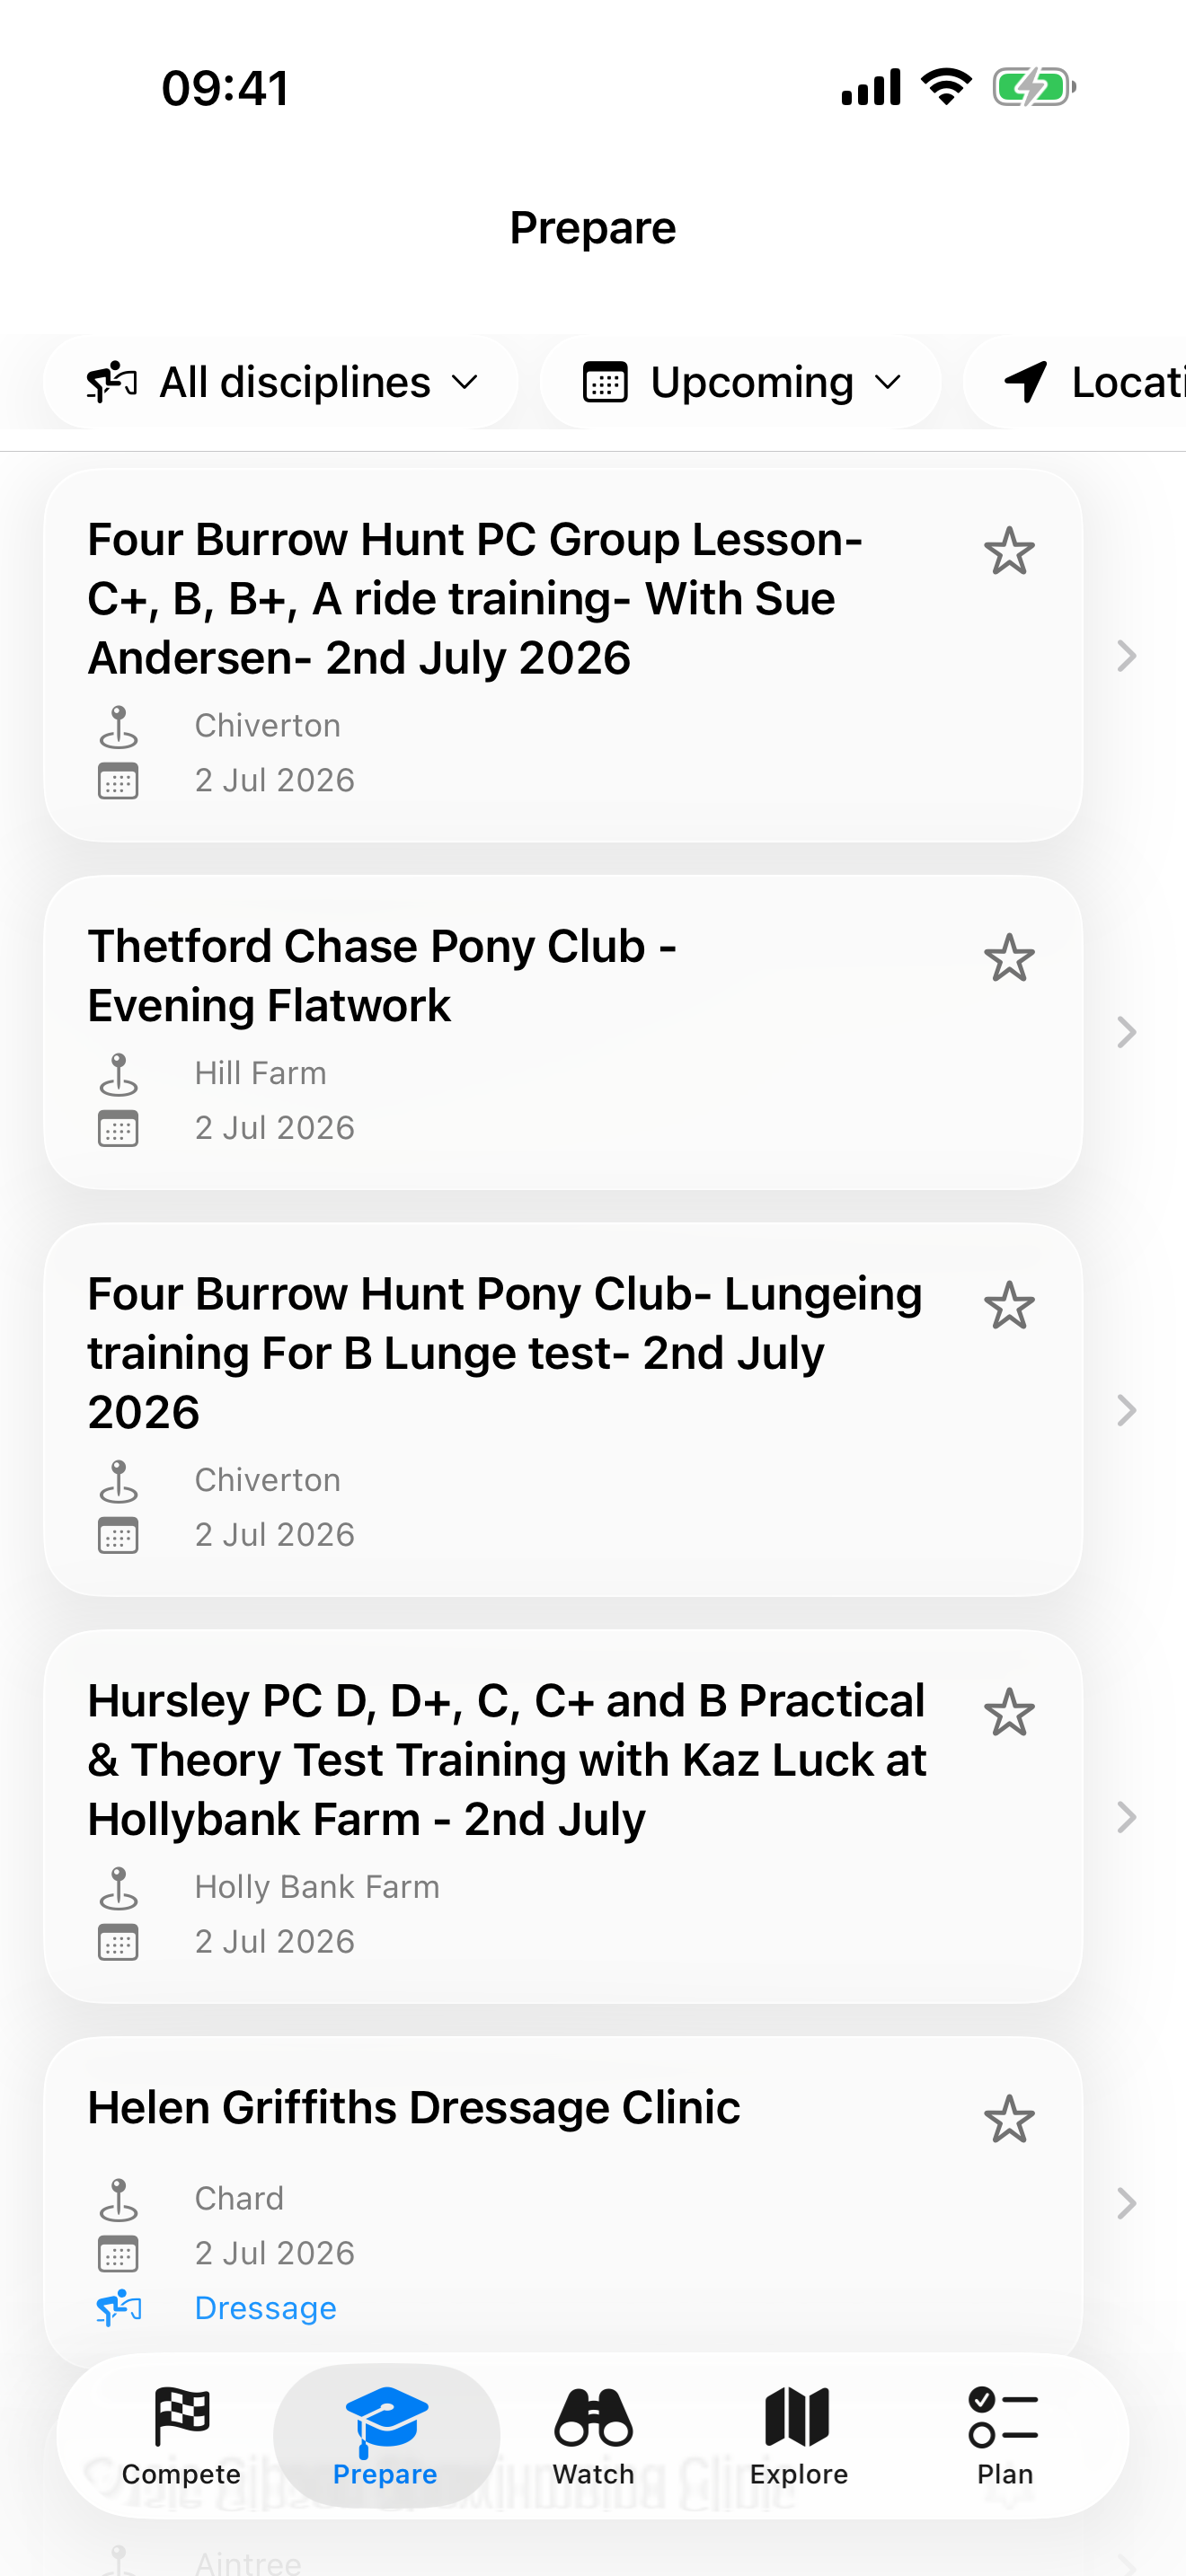
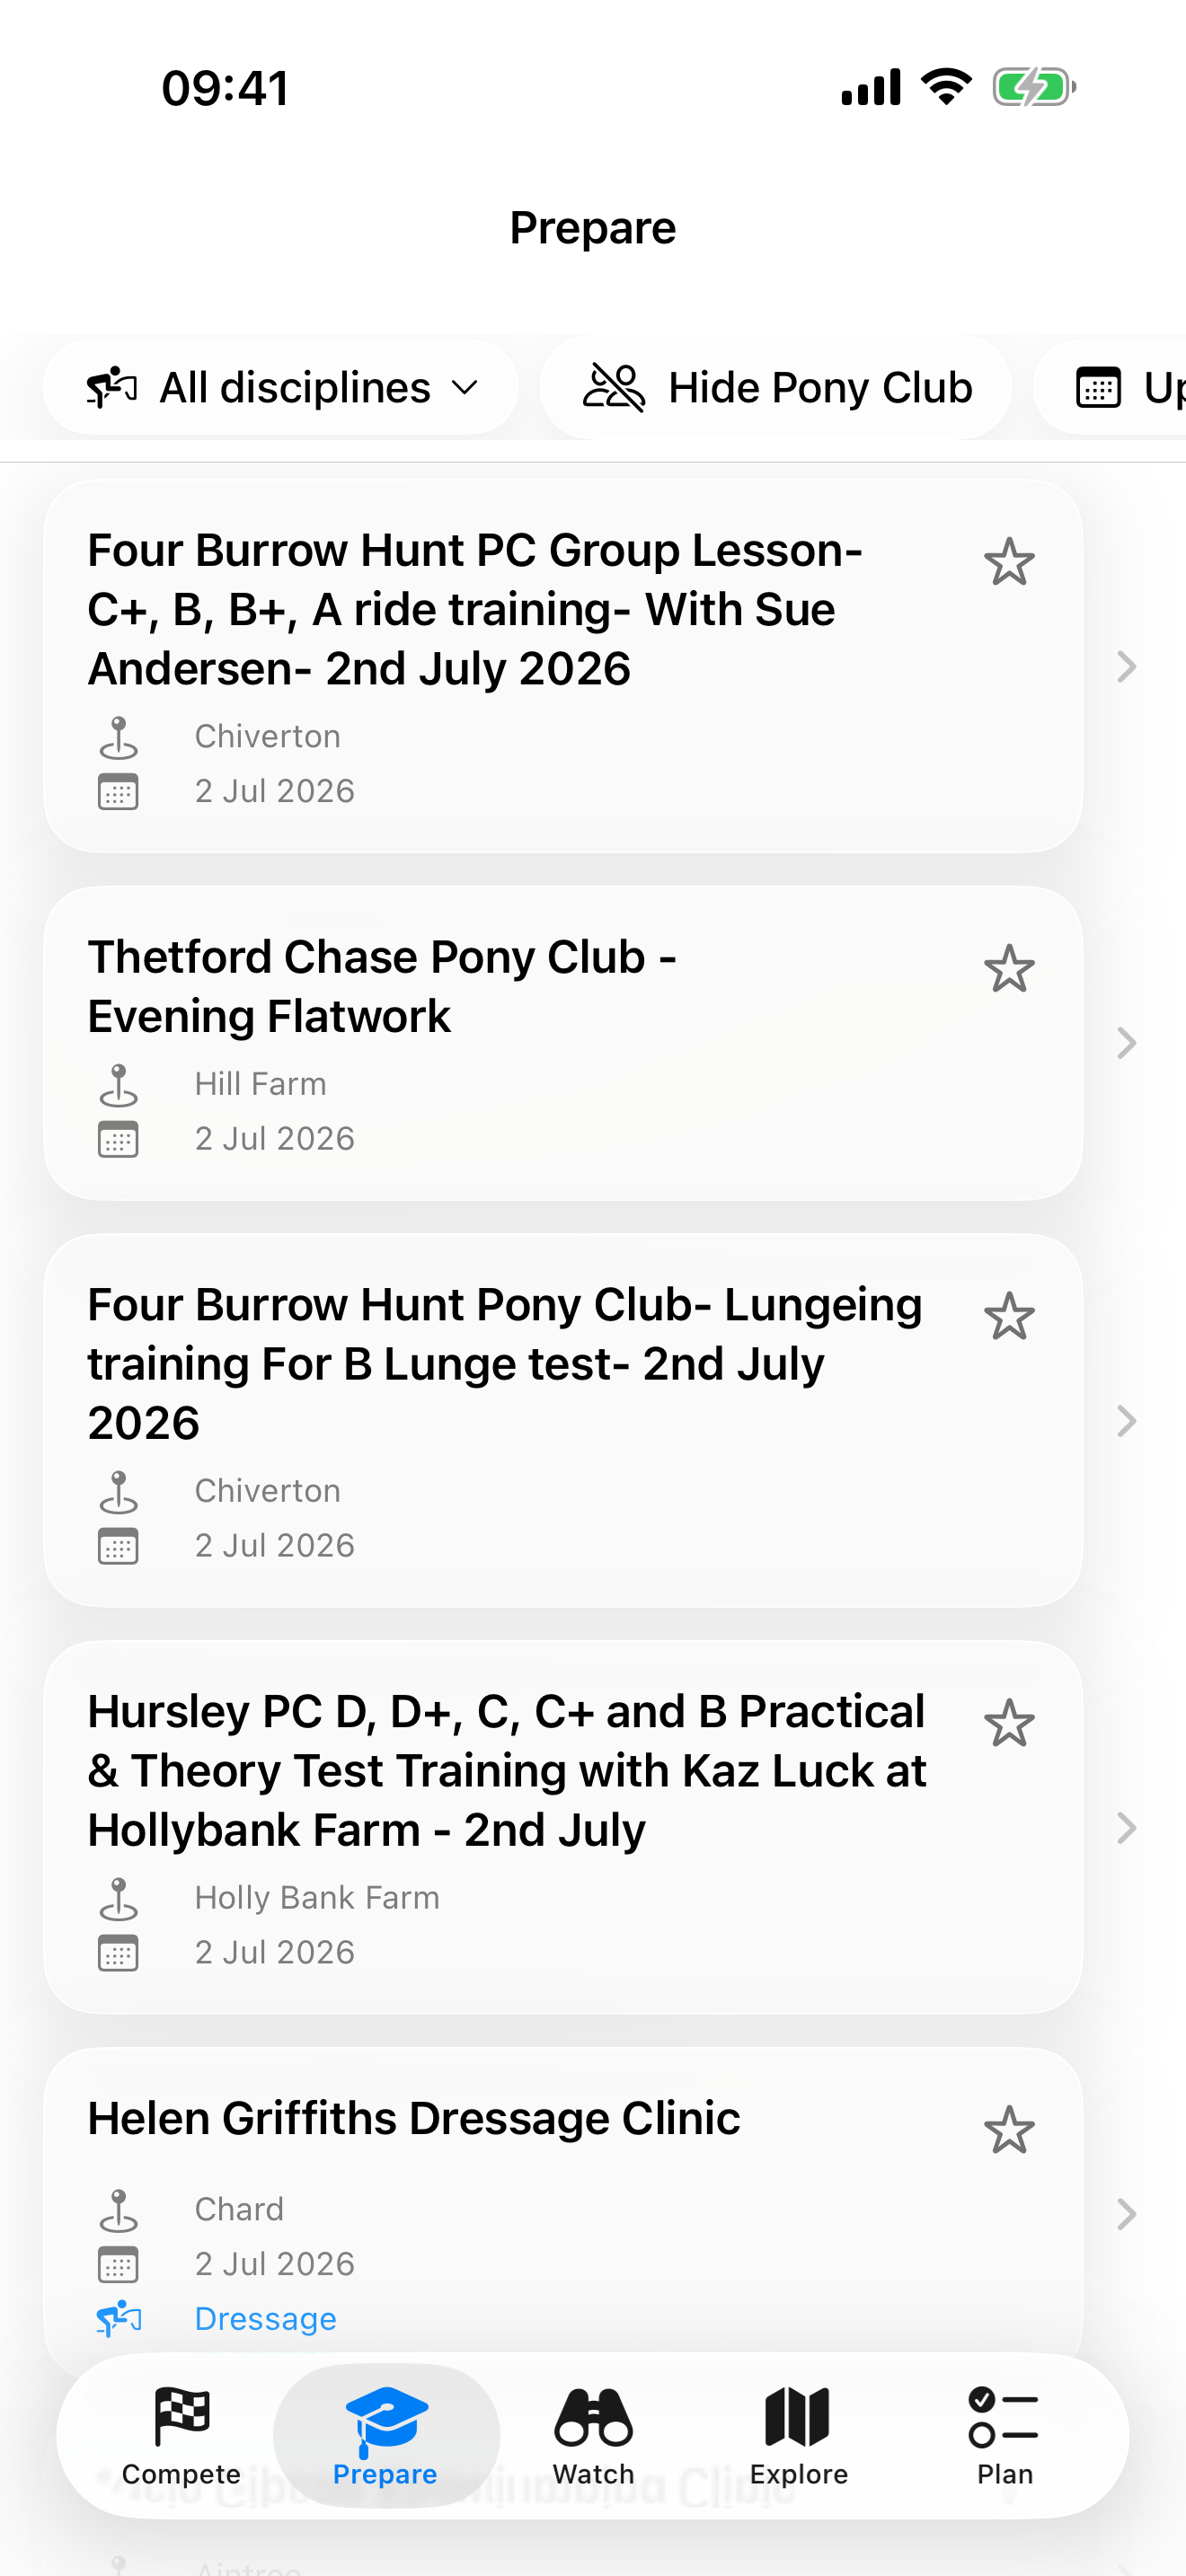
feat: add "Hide Pony Club" filter to Prepare tab

diff --git a/ios/EquiCalendar/Views/FilterComponents.swift b/ios/EquiCalendar/Views/FilterComponents.swift
@@ -29,6 +29,9 @@ struct FilterBar<Model: FilterDriving>: View {
                     if model.showsDiscipline {
                         disciplineMenu
                     }
+                    if model.showsPonyClubFilter {
+                        ponyClubPill
+                    }
                     if model.showsDate {
                         dateMenu
                     }
@@ -118,6 +121,15 @@ struct FilterBar<Model: FilterDriving>: View {
     }
 
     private var championshipToken: String { "special:championship-final" }
+
+    /// Prepare-only toggle to hide members-only Pony Club events.
+    private var ponyClubPill: some View {
+        Button {
+            Task { await model.setHidePonyClub(!model.hidePonyClub) }
+        } label: {
+            pill("Hide Pony Club", icon: "person.2.slash", active: model.hidePonyClub, showsChevron: false)
+        }
+    }
 
     private var disciplineMenu: some View {
         Menu {

diff --git a/ios/EquiCalendar/ViewModels/EventsViewModel.swift b/ios/EquiCalendar/ViewModels/EventsViewModel.swift
@@ -181,6 +181,15 @@ final class EventsViewModel: FilterDriving {
     /// affiliation level ladder, so those pills are hidden (Discipline + Date only).
     var isTraining: Bool { filter.eventType == "training" }
 
+    // "Hide Pony Club" — Prepare only. Most PC prepare events are members-only,
+    // so a non-PC rider can filter them out (excludes affiliation:pony-club).
+    var showsPonyClubFilter: Bool { isTraining }
+    var hidePonyClub: Bool { filter.excludeTags.contains("affiliation:pony-club") }
+    func setHidePonyClub(_ hide: Bool) async {
+        filter.excludeTags = hide ? ["affiliation:pony-club"] : []
+        await load()
+    }
+
     func setSeries(_ token: String?) async {
         series = token
         rebuildTags()

diff --git a/ios/EquiCalendar/ViewModels/FilterDriving.swift b/ios/EquiCalendar/ViewModels/FilterDriving.swift
@@ -49,6 +49,10 @@ protocol FilterDriving: AnyObject, Observable {
     var showsDate: Bool { get }
     /// A dedicated Championships toggle (Watch only — Compete has it in Series).
     var showsChampionships: Bool { get }
+    /// A "Hide Pony Club" toggle (Prepare only — filters out members-only PC events).
+    var showsPonyClubFilter: Bool { get }
+    var hidePonyClub: Bool { get }
+    func setHidePonyClub(_ hide: Bool) async
 }
 
 extension FilterDriving {
@@ -56,4 +60,7 @@ extension FilterDriving {
     var showsDiscipline: Bool { true }
     var showsDate: Bool { true }
     var showsChampionships: Bool { false }
+    var showsPonyClubFilter: Bool { false }
+    var hidePonyClub: Bool { false }
+    func setHidePonyClub(_ hide: Bool) async {}
 }

diff --git a/ios/EquiCalendar/Services/APIClient.swift b/ios/EquiCalendar/Services/APIClient.swift
@@ -11,6 +11,8 @@ struct EventFilter: Equatable, Sendable {
     var dateTo: Date?
     /// Tag tokens to require, e.g. "affiliation:nsea", "series:trailblazers".
     var tags: [String] = []
+    /// Tag tokens to exclude, e.g. "affiliation:pony-club" (Prepare "Hide Pony Club").
+    var excludeTags: [String] = []
     /// Restrict to a single venue (set when a map pin hands off to Compete).
     var venueID: Int?
     /// Map viewport bounds (Explore) — the visible region, so zoom is the filter.
@@ -23,6 +25,7 @@ struct EventFilter: Equatable, Sendable {
         var items: [URLQueryItem] = []
         if let d = discipline, !d.isEmpty { items.append(.init(name: "discipline", value: d)) }
         for t in tags where !t.isEmpty { items.append(.init(name: "tag", value: t)) }
+        for t in excludeTags where !t.isEmpty { items.append(.init(name: "exclude_tag", value: t)) }
         if let t = eventType, !t.isEmpty { items.append(.init(name: "event_type", value: t)) }
         if let s = spectator { items.append(.init(name: "spectator", value: s ? "true" : "false")) }
         if let p = postcode, !p.isEmpty { items.append(.init(name: "postcode", value: p)) }